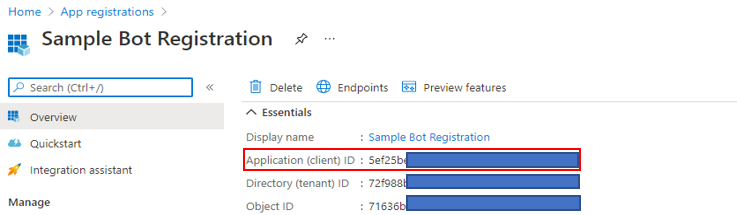
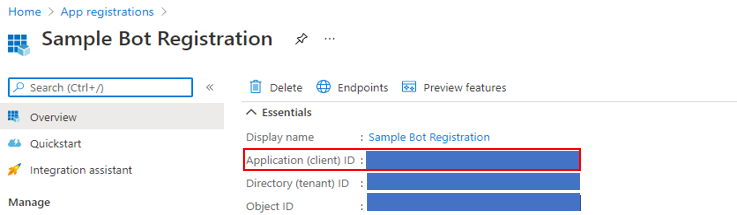
updates requested for SFI

Changed region(s): [[0.4993, 0.6977, 0.8114, 1.0]]

diff --git a/contributor-guide/create-images-markdown.md b/contributor-guide/create-images-markdown.md
@@ -70,11 +70,11 @@ Use the following guidelines when creating and including art files:
     ![This is an example of a browser window screenshot.](./media/create-images-markdown/helloworldlocal.png)
 * Use caution with what information is revealed in screenshots.  Do not reveal internal company information or personal information.
 * In conceptual art or diagrams, use the official icons in the Cloud and Enterprise symbol and icon set. A public set is available at https://aka.ms/CnESymbols.
-* Replace personal or private information in screenshots with placeholder text enclosed in angle brackets. This includes user names, subscription IDs, and other related info. Personal names can be replaced with an [approved fictitious name](https://aka.ms/ficticiousnames)(Employee-only link). Do not use the crayon or marker tip in Paint to obscure or blur personal or private information.
+* Replace personal or private information in screenshots so that real information is not used. This includes user names, subscription IDs, and other related info. Personal names can be replaced with an [approved fictitious name](https://aka.ms/ficticiousnames)(Employee-only link). IDs can either be obscured with a colored box or replaced with a fictional ID from an [Approved list of sensitive identifiers](https://review.learn.microsoft.com/en-us/help/platform/reference-sensitive-identifier?branch=main) Do not use the crayon or marker tip in Paint to obscure or blur personal or private information.
   
-  The following image has been correctly updated to replace the actual **subscription ID** with placeholder information:
+  The following image has been correctly updated to replace the actual **subscription ID** with fictional information:
   
-  ![Private information replaced with placeholder](./media/create-images-markdown/placeholder-in-screenshot-correct.png)
+  ![Private information replaced with fictional information](./media/create-images-markdown/replace-information-fictional.png)
 
 ### Contributors' Guide Links
 
